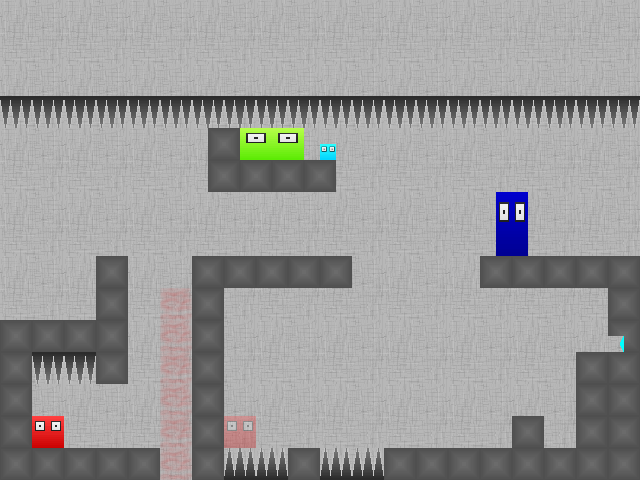
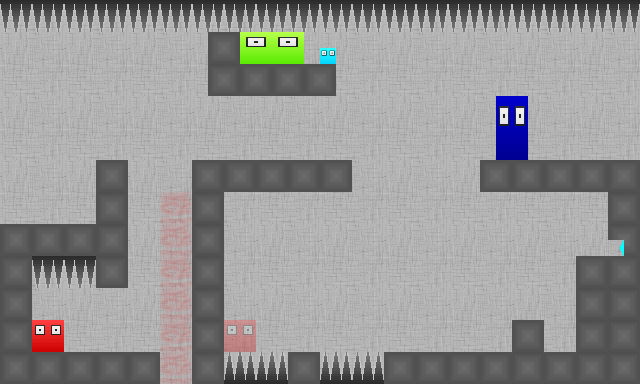
bigger blog images

diff --git a/src/style.css b/src/style.css
@@ -596,10 +596,15 @@ footer {
 }
 
 .blog .image-wrap {
-	width: 32.8%;
+	width: 61.8%;
 }
 .blog .text-wrap {
 	padding: 0 18px;
+}
+@media (max-width: 700px) {
+	.blog .image-wrap {
+		width: 100%;
+	}
 }
 
 #body {
